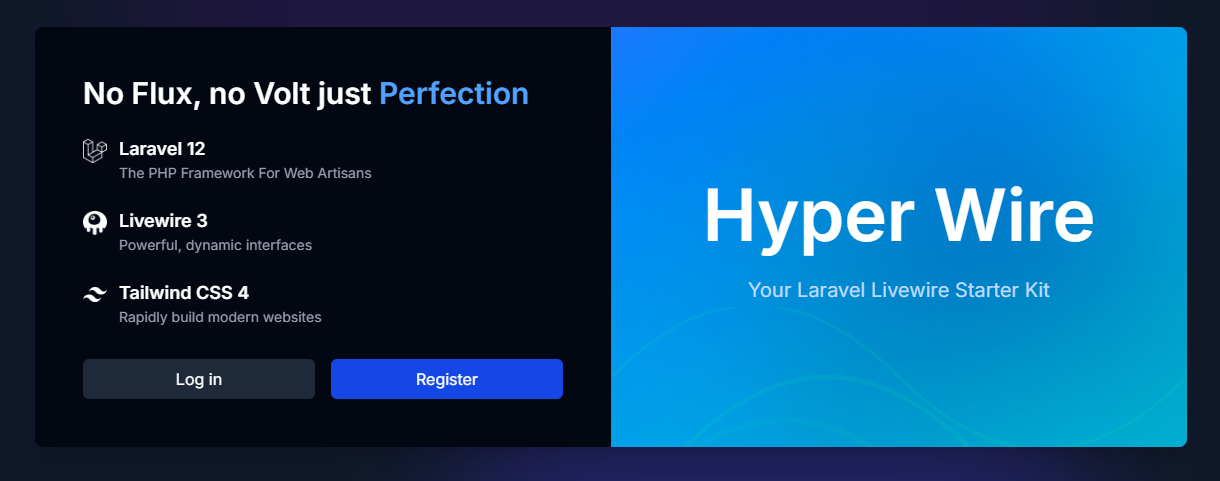
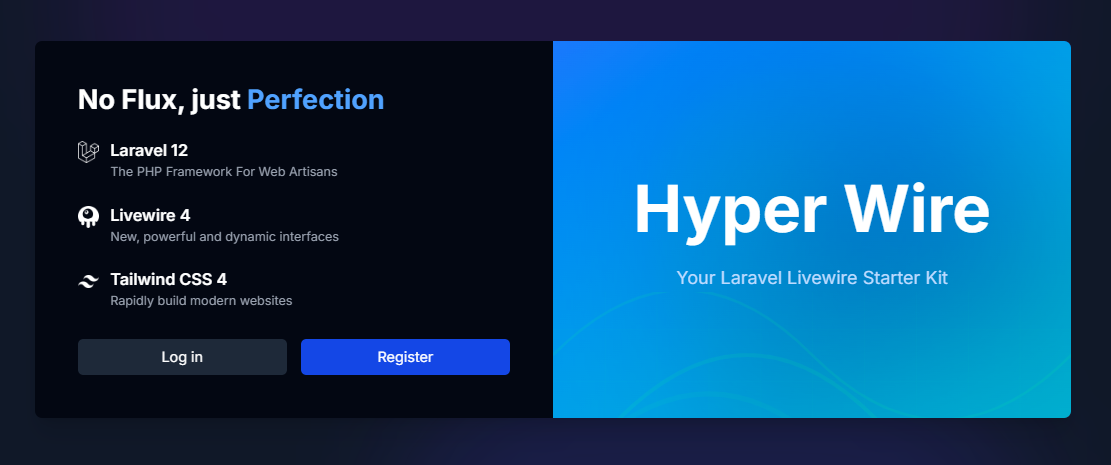
Update readme

diff --git a/README.md b/README.md
@@ -1,22 +1,22 @@
 # Hyper Wire Starter Kit
+
 [![Latest Version on Packagist](https://img.shields.io/packagist/v/yehuuu6/hyperwire.svg?style=flat-square)](https://packagist.org/packages/yehuuu6/hyperwire)
 [![Project Status: Active – The project has reached a stable, usable state and is being actively developed.](https://www.repostatus.org/badges/latest/active.svg)](https://www.repostatus.org/#active)
 ![GitHub last commit](https://img.shields.io/github/last-commit/yehuuu6/hyperwire)
 <a href="https://herd.laravel.com/new?starter-kit=yehuuu6/hyperwire"><img src="https://img.shields.io/badge/Install%20with%20Herd-f55247?logo=laravel&logoColor=white"></a><br>
 
-A clean Laravel Livewire starter kit without Flux or Volt and code mess!
+A clean Laravel Livewire starter kit without Flux and code mess!
 
 ![Alt text](.github/showcase.png)
 
 ## Features
 
-- **No Flux or Volt:** Enjoy a streamlined development experience without the added complexity of Flux or Volt.
+- **No Flux:** Enjoy a streamlined development experience without the added complexity of Flux.
 - **Minimal Boilerplate:** Focus on your application's core logic with minimal, easy-to-understand boilerplate code and components.
 - **Email OTP Verification:** Enhanced security with Email OTP (One-Time Password) verification instead of traditional link-based verification.
-![Email OTP Verification](.github/opt.png)
+  ![Email OTP Verification](.github/opt.png)
 - **Rate Limiter:** Limit user actions using the [Livewire Rate Limiter](https://github.com/yehuuu6/livewire-rate-limiting) package.
 - **Toast Notifications:** Beautiful toast notifications thanks to the [Livewire Toaster](https://github.com/masmerise/livewire-toaster) package.
-
 
 ## Installation
 
@@ -34,7 +34,7 @@ Then, run `composer run dev` to run the development server & queues and other to
 Below is a list of all the technologies this starter kit has been **built with**:
 
 - [Laravel 12](https://laravel.com)
-- [Livewire 3](https://livewire.laravel.com)
+- [Livewire 4](https://livewire.laravel.com)
 - [TailwindCSS 4](https://tailwindcss.com)
 
 ## License
